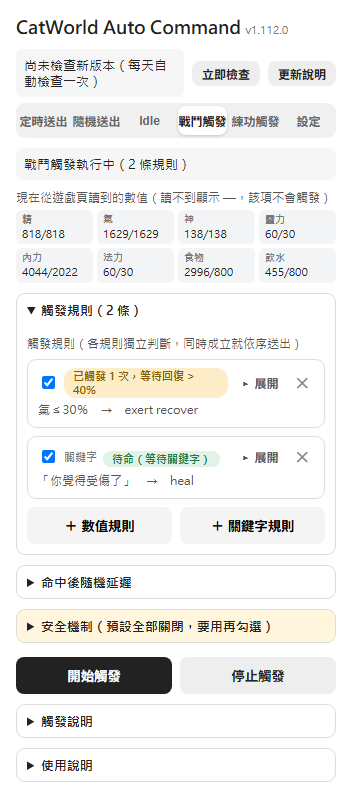
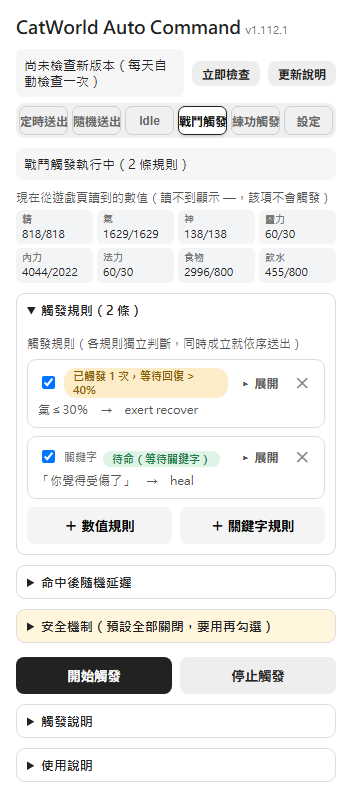
Settings page tabs get borders (v1.112.1): each tab has its own border and the selected one is darker, so the six tabs read apart at a glance. Style only; README screenshots retaken.
Claude-Session: https://claude.ai/code/session_01Q2ejToY9yyQuqCHLYYDFAx

Changed region(s): [[0.4889, 0.1235, 0.7944, 0.1852], [0.0611, 0.1235, 0.3361, 0.1852], [0.7639, 0.0309, 0.7944, 0.0617]]

diff --git a/catworld-auto-command/popup.html b/catworld-auto-command/popup.html
@@ -41,8 +41,8 @@
     .rhead { font-size:11px; color:#777; margin-top:2px; }
     .add-item { margin-top:8px; width:100%; background:#f4f4f4; }
     .tabs { display:flex; gap:4px; background:#f0f0f0; border-radius:9px; padding:3px; margin-bottom:10px; }
-    .tabs button { padding:6px 0; background:transparent; color:#666; font-size:12px; white-space:nowrap; min-width:0; }
-    .tabs button[aria-selected="true"] { background:#fff; color:#222; box-shadow:0 1px 3px rgba(0,0,0,.18); }
+    .tabs button { padding:5px 0; background:transparent; color:#666; font-size:12px; white-space:nowrap; min-width:0; border:1px solid #cfcfcf; border-radius:7px; }
+    .tabs button[aria-selected="true"] { background:#fff; color:#111; border-color:#222; box-shadow:0 1px 3px rgba(0,0,0,.18); }
     [data-pane][hidden] { display:none; }
 
     .read { display:grid; grid-template-columns:repeat(4, minmax(0, 1fr)); gap:4px; }

diff --git a/CHANGELOG.md b/CHANGELOG.md
@@ -3,6 +3,10 @@
 `catworld-auto-command` 的版本紀錄，新的在上面。版本號規則：新功能升 minor、小修正升 patch。
 日期是 commit 的日期。沒有單獨 commit 的版本，會註明是和哪個版本一起發布的。
 
+## 1.112.1（2026-11-10）
+
+- **設定頁分頁標籤加框線**：每個分頁標籤有自己的邊框，目前選到的那一個框線變深，六個分頁一眼分得開。只改樣式。
+
 ## 1.112.0（2026-11-10）
 
 - **設定頁版面重整，沒那麼長了**：新增「設定」分頁，原本接在每個分頁下面的 17 個共用區塊（輔助功能、警報、停止關鍵字、聊天回覆、劇本對話、在線獎勵、怪物分級、主要武器、共用資料、地圖、拜師、裝備資料庫、巡怪、額外網址、設定備份、手機通知、驗證碼樣本）全搬進去，再分成「遊戲輔助」「自動回覆與獎勵」「警報與安全」「資料與連線」四組可以收起來；戰鬥、練功觸發分頁只剩該組自己的規則、延遲與安全機制。觸發規則清單也能收起來，標題寫「N 條、幾條關閉」，執行中有規則被停用會標 ⚠；兩段長說明收進「使用說明」。「測試送出 ps」移到定時分頁，「測試提示音」移到警報提示音，「悟招清單」移到輔助功能。分頁標籤縮小一點，六個分頁在小視窗放得下；規則被停用的狀態標籤窄版折行時不再變橢圓。README 的四張設定頁截圖（定時、戰鬥、練功、設定頁）重拍成新版面。所有設定值、儲存格式都沒變。
